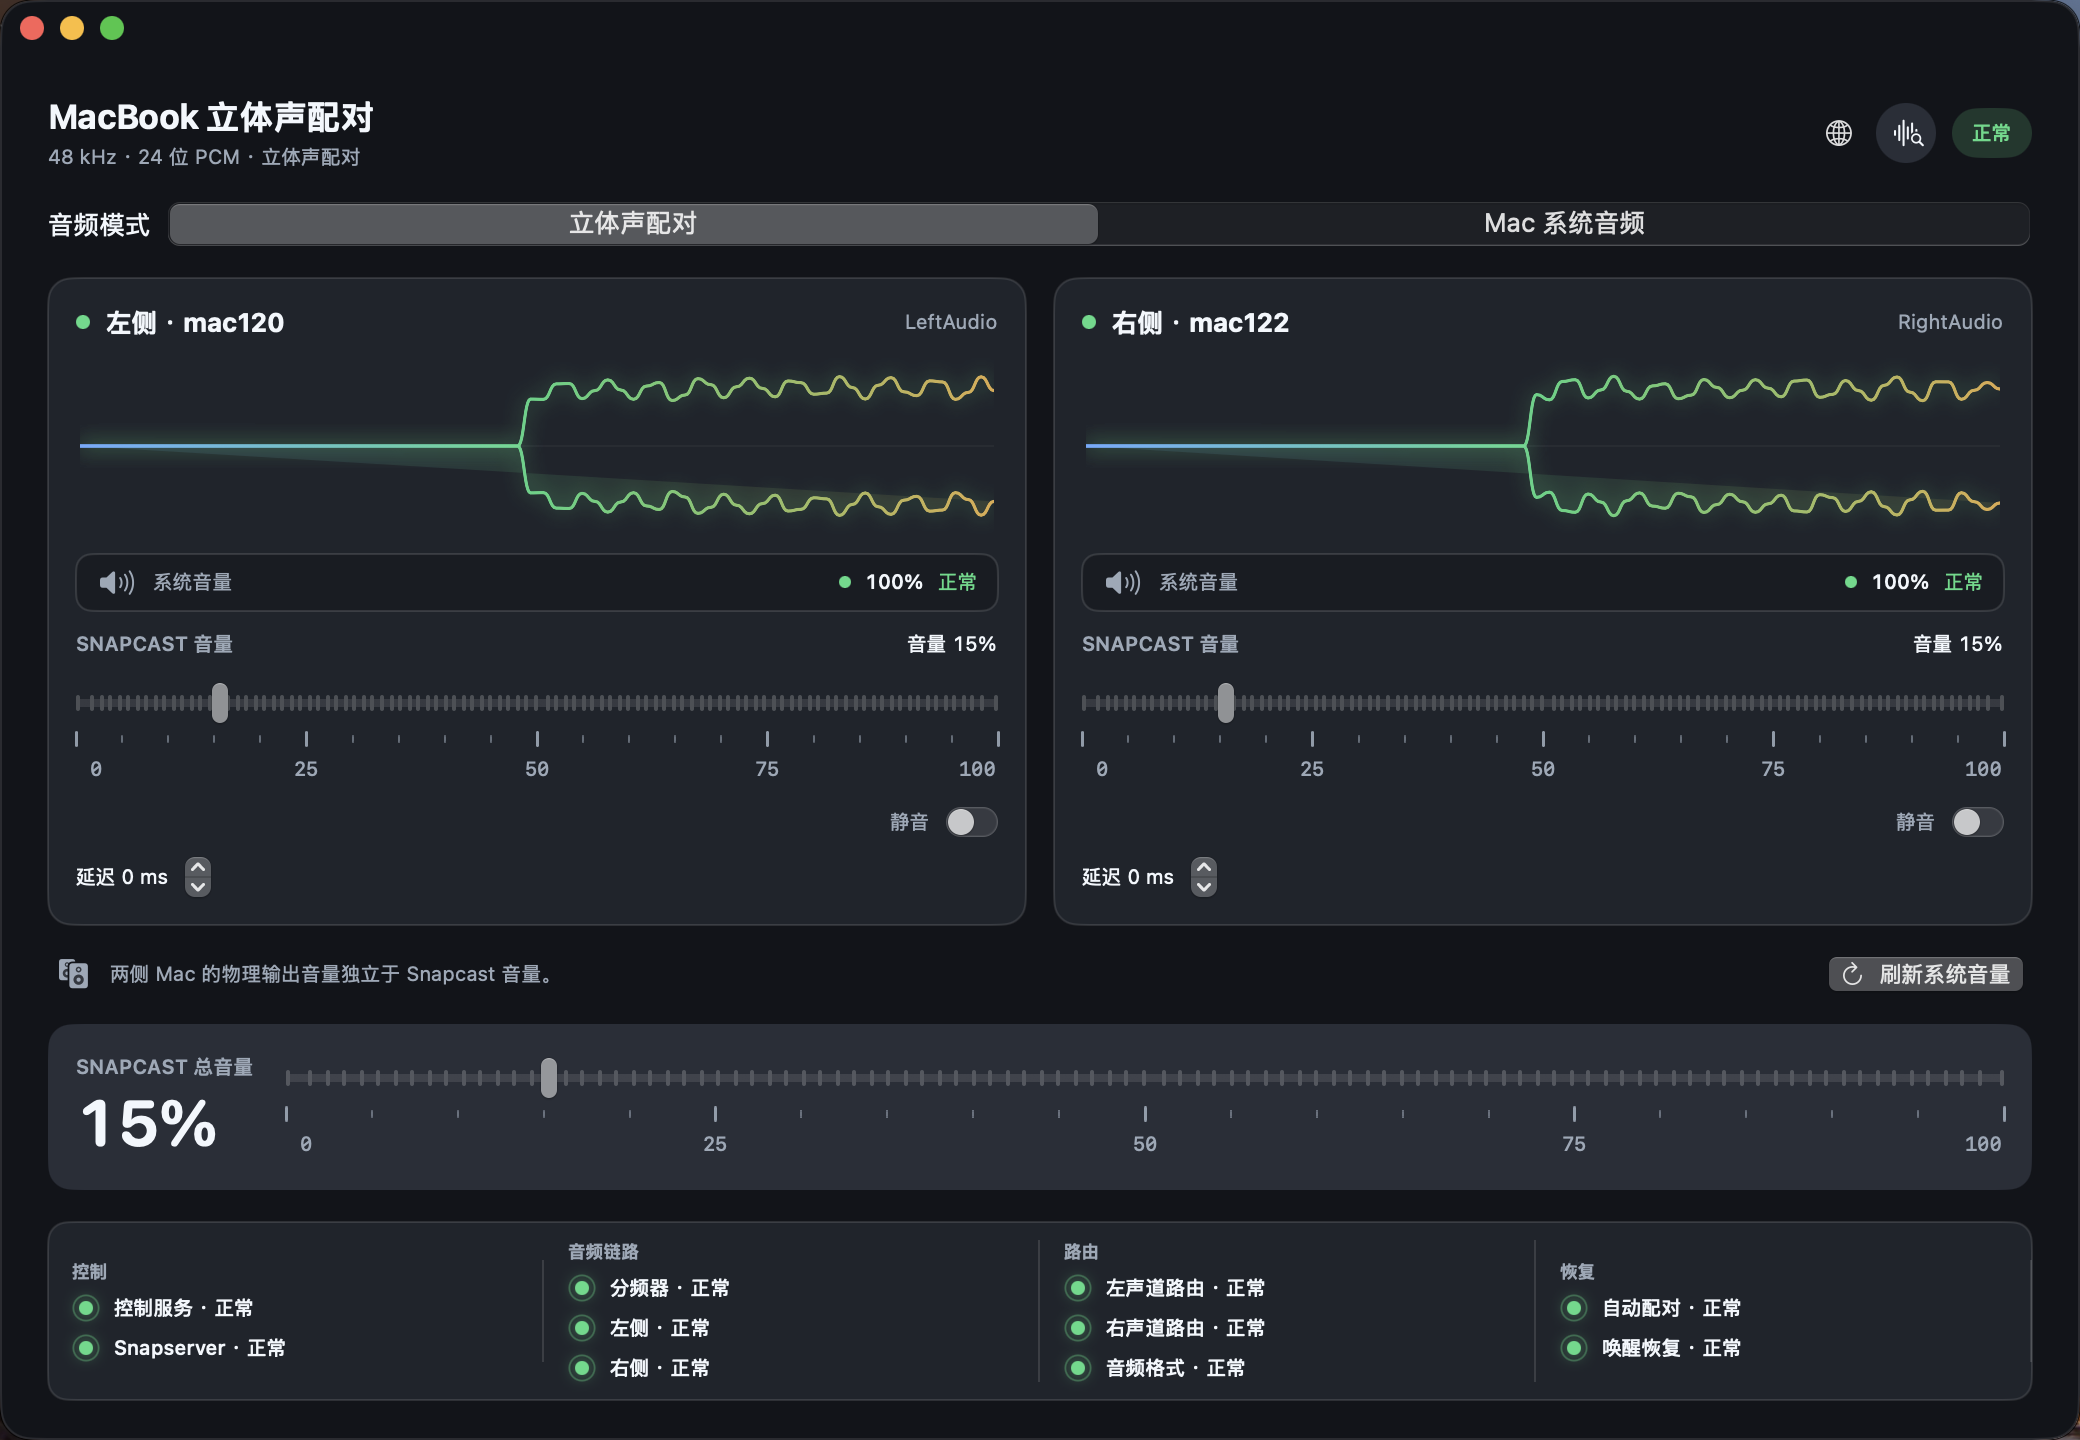
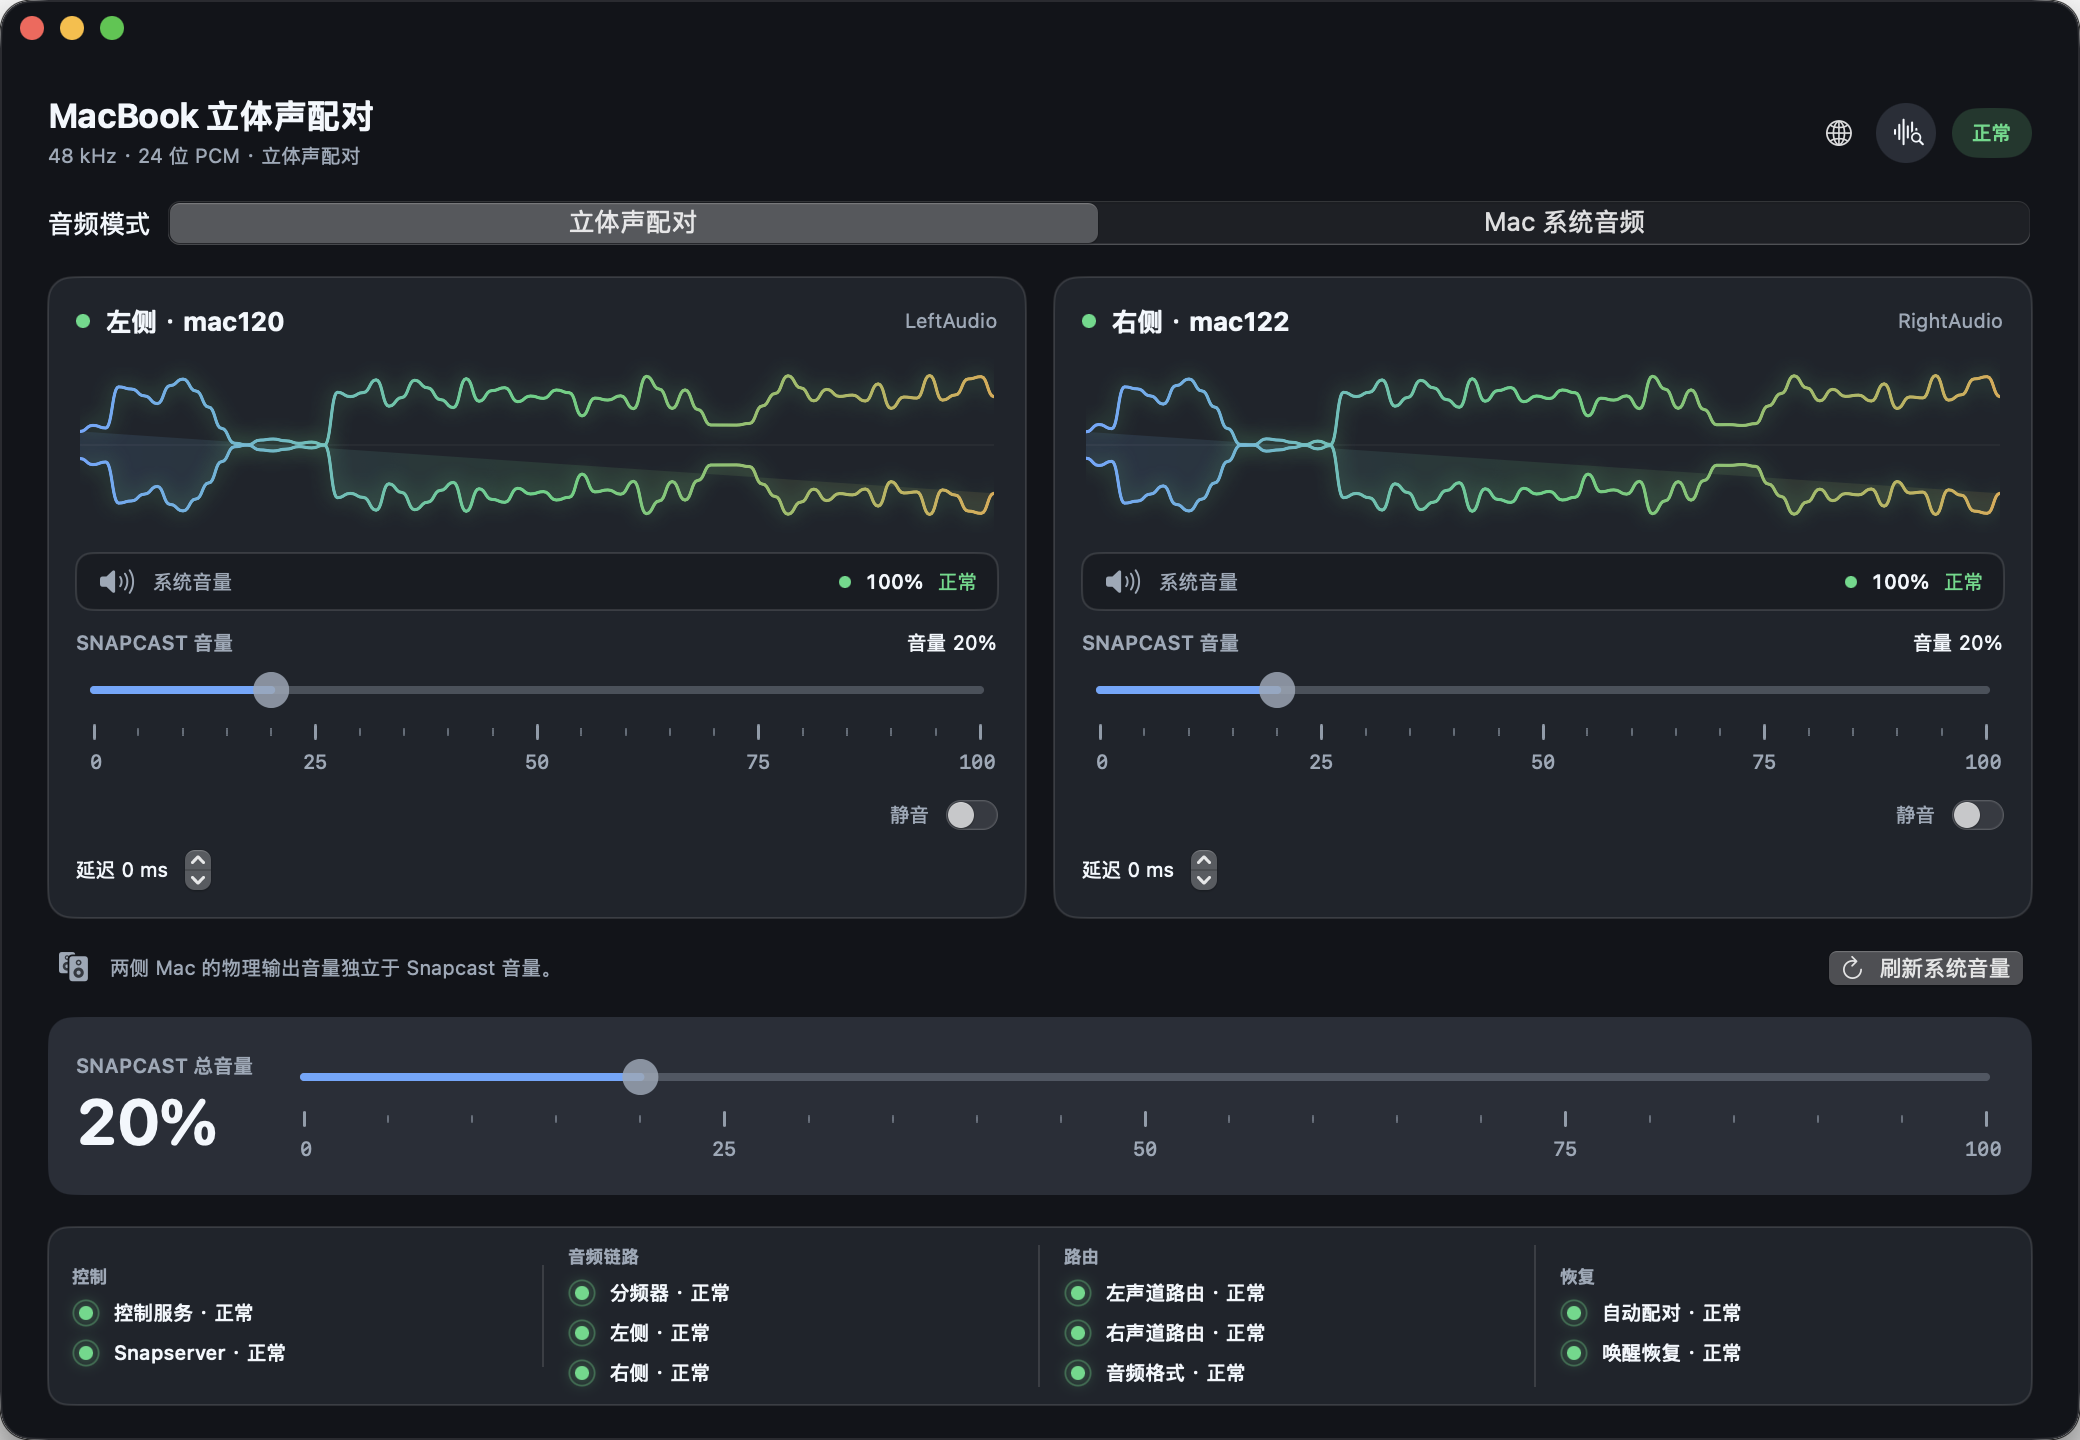
docs: refresh README and console screenshots

diff --git a/README.md b/README.md
@@ -13,12 +13,15 @@ native SwiftUI console, owner-only control Agent, installation lifecycle, and
 automatic device recovery replace the manual setup normally required for a
 multiroom audio stack.
 
-![English native console](docs/images/native-console-en.png)
+![MacBook Stereo Pair English console showing dual-channel audio, aligned volume controls, and health status](docs/images/native-console-en.png)
+
+<sub>Current native console: live stereo meters, continuous volume controls,
+dual-Mac system-volume indicators, and end-to-end runtime health.</sub>
 
 <details>
 <summary>简体中文界面</summary>
 
-![Native console in Simplified Chinese](docs/images/native-console-zh-Hans.png)
+![MacBook Stereo Pair Simplified Chinese console showing dual-channel audio and health status](docs/images/native-console-zh-Hans.png)
 
 </details>
 
@@ -33,6 +36,7 @@ multiroom audio stack.
 | Audio capture | BlackHole 2ch through PortAudio |
 | Playback | Patched Snapclient with explicit CoreAudio device selection |
 | Control surface | Native SwiftUI Dock and menu-bar application |
+| Volume control | Continuous side/master sliders with throttled asynchronous audio previews |
 | Network boundary | Stream TCP `1704`; control APIs bound to localhost |
 | Recovery | Sleep/wake relaunch, hardware-volume recovery, health monitoring |
 | Release model | Ad-hoc signed source builds and Homebrew packaging |
@@ -49,6 +53,7 @@ the macOS-specific work needed to run a practical two-Mac stereo pair.
 | macOS system-audio capture | Assemble separately | BlackHole capture and left/right FIFO split built in |
 | Stereo placement | Configure generic clients | Stable role-based `LeftAudio` and `RightAudio` routing |
 | Local playback device | Choose manually | Explicit CoreAudio output binding with feedback-safe routing |
+| Volume interaction | Control through external tools | Native continuous sliders with synchronized side/master updates |
 | Volume safety | Manage external scripts | Preserve and restore hardware output and exact volume |
 | Sleep/wake recovery | Build separately | Local and remote wake-recovery LaunchAgents included |
 | Control interface | Use an external client | Native SwiftUI console with live meters and diagnostics |
@@ -153,14 +158,17 @@ the audio engine: closing the window or quitting the GUI does not stop playback.
 Key capabilities:
 
 - Dual-channel live waveforms, peak/RMS meters, and clip indication.
-- Per-side and master Snapcast volume with integer steps and 5% visual scales.
+- Per-side and master Snapcast volume with continuous pointer tracking,
+  throttled asynchronous audio previews, trailing final commits, synchronized
+  master changes, and aligned 5% visual scales.
 - Separate physical system-volume indicators for both Macs.
 - Mute, latency, stream format, route, and connection state controls.
 - Service, routing, pairing, and wake-recovery health.
 - Stereo-pair and normal macOS-audio mode switching.
 - Redacted diagnostics, allowlisted service restarts, and installation repair.
 - English and Simplified Chinese resources; new installs default to English.
-- Single-instance protection, bounded window sizing, and accessible status text.
+- Single-instance protection, bounded window sizing, keyboard-adjustable volume
+  controls, and accessible status text.
 
 See [docs/native-console.md](docs/native-console.md) for the complete control
 model, recovery behavior, accessibility, and privacy design.
